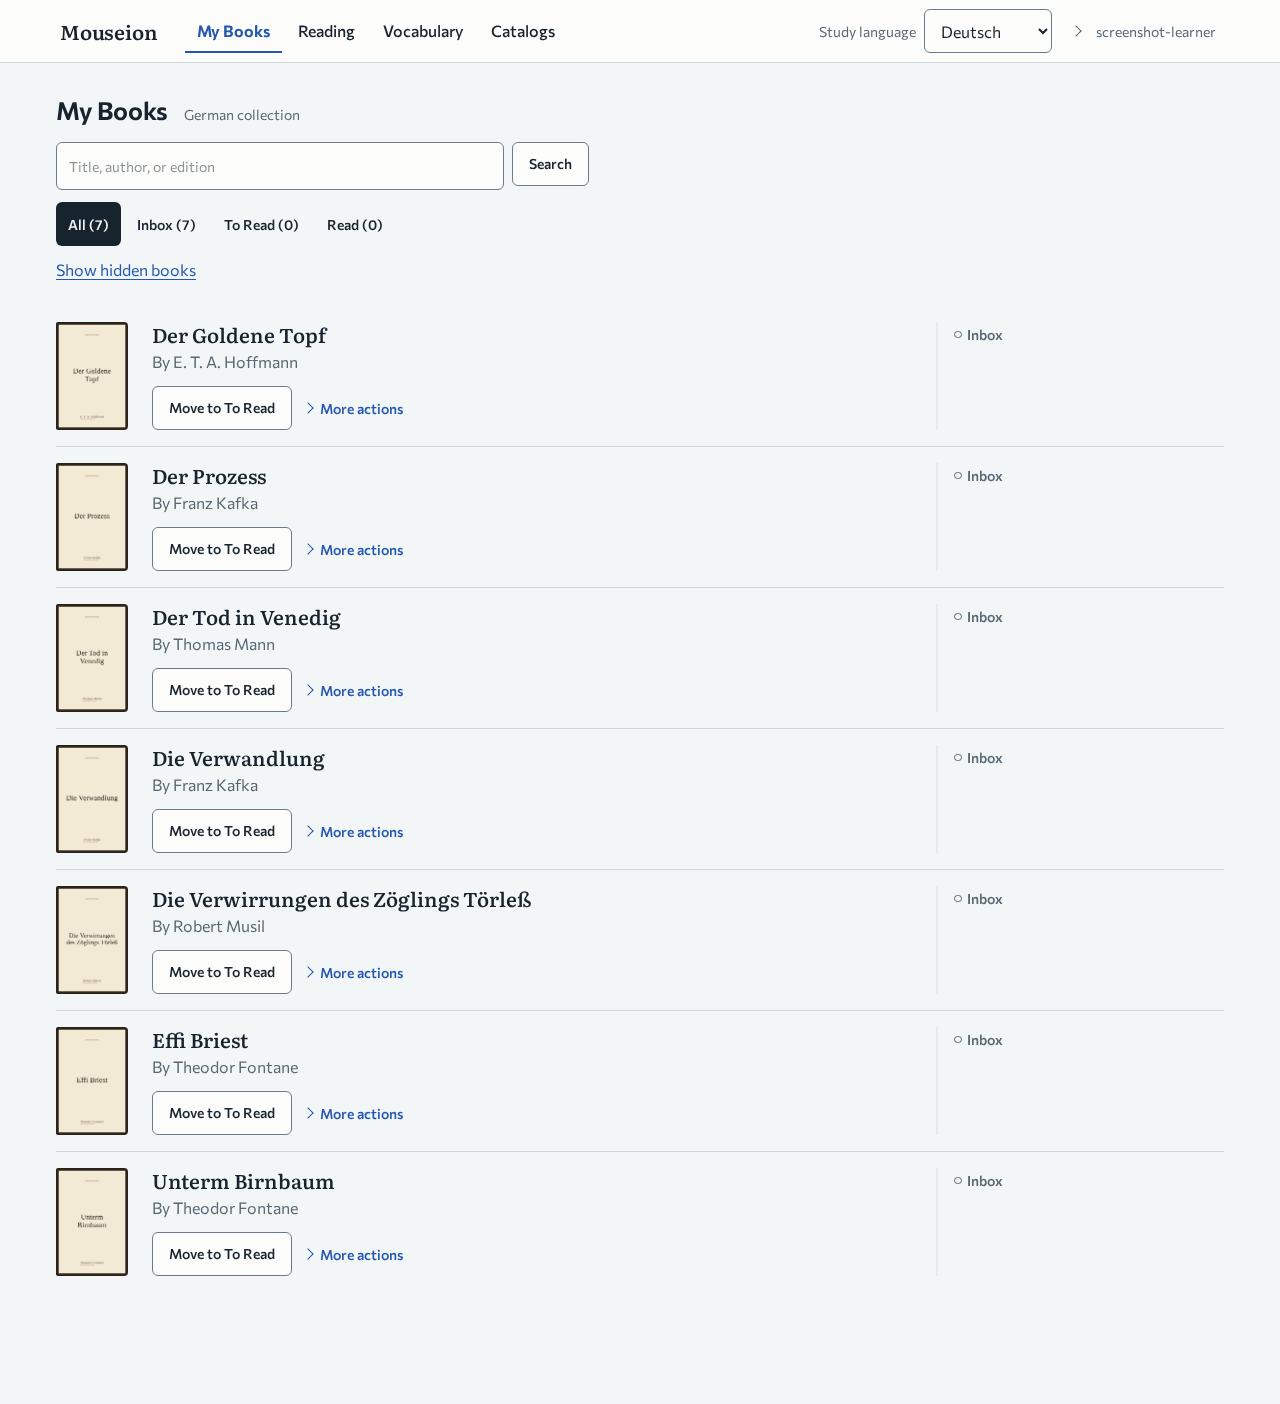
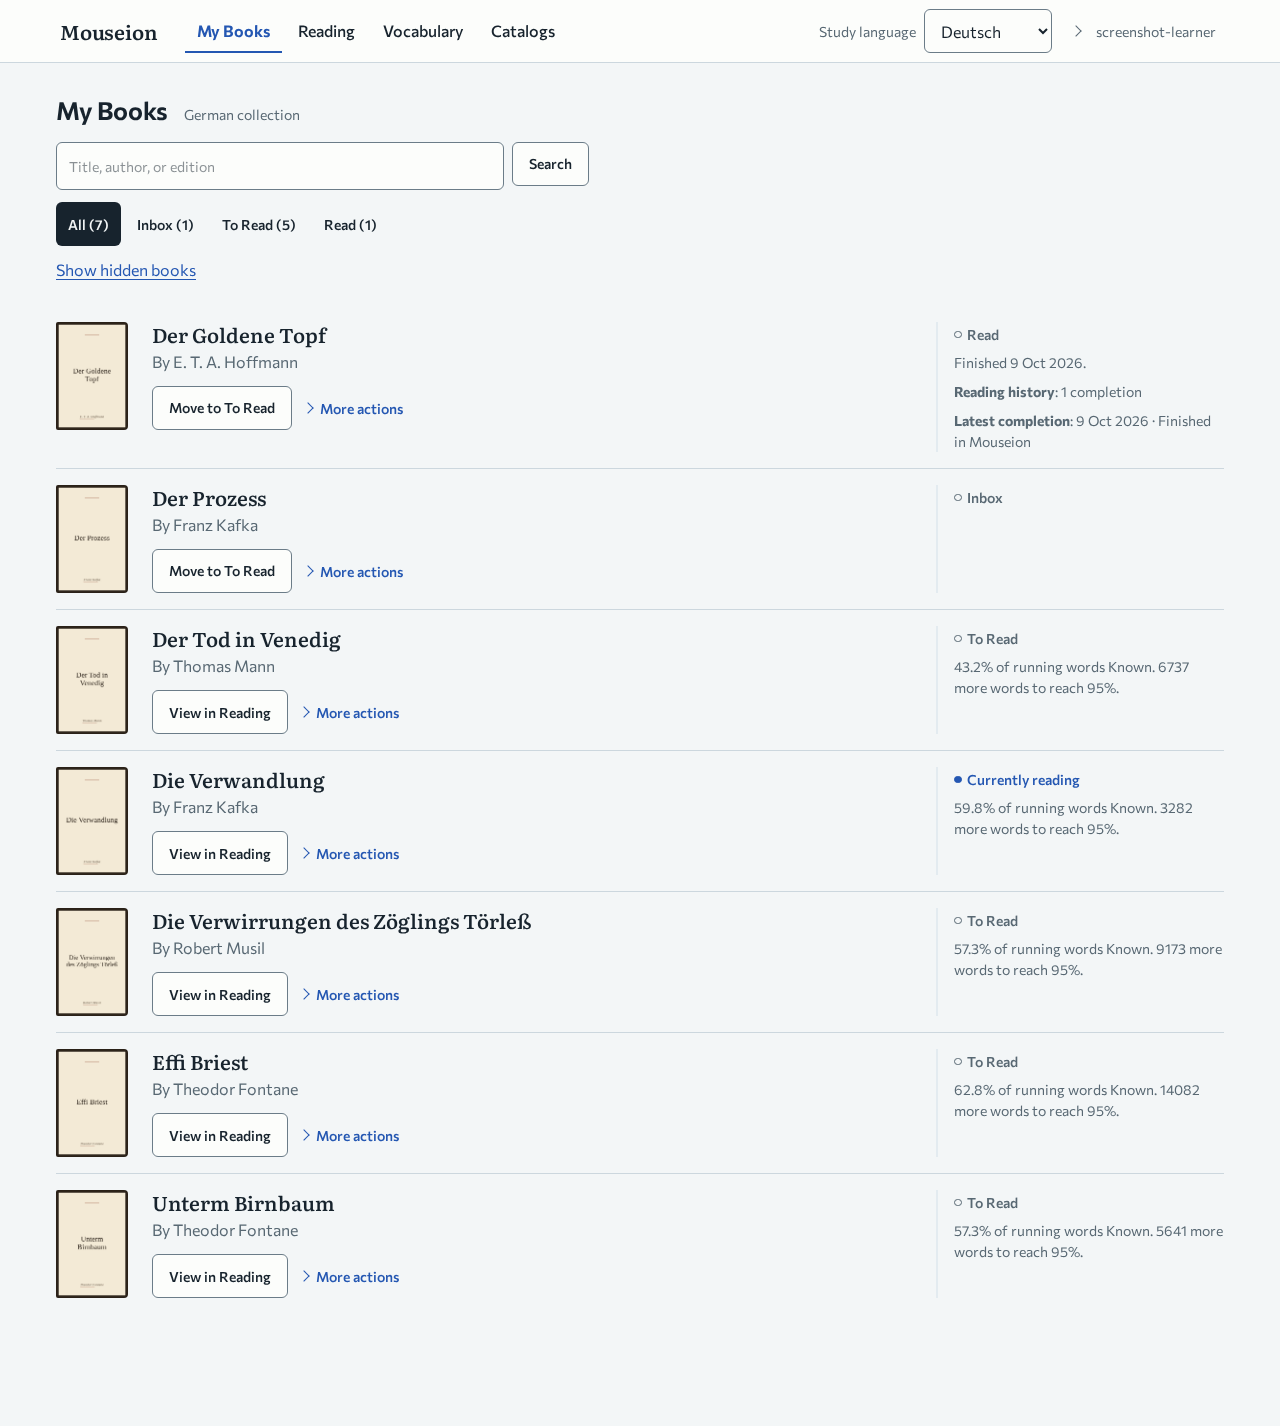
feat(e2e): analyze scenario books and capture the Reading view (#1640)

diff --git a/e2e/screenshot/my-books.spec.ts b/e2e/screenshot/my-books.spec.ts
@@ -1,15 +1,19 @@
-// Learner workflow for the My Books documentation screenshot. It creates the
-// first account, adds the static catalog, waits for catalog sync and covers by
-// observing the interface with bounded timeouts, asserts the scenario books,
-// and writes the 1280 px light-scheme capture. Every input comes from the
-// environment set by run.mjs.
+// Learner workflow for the documentation screenshots. It creates the first
+// account, adds the static catalog, waits for catalog sync and covers, moves the
+// scenario Books to To Read and waits for each analysis, reads one Book to
+// completion, starts the target Book, and then captures the Reading view and
+// My Books. Every input comes from the environment set by run.mjs, and every
+// wait is bounded and reports the Book or step that stalled.
 import { expect, test, type Page } from '@playwright/test';
 import { readFileSync } from 'node:fs';
+
+type Journey = 'inbox' | 'to-read' | 'read' | 'current';
 
 interface ManifestBook {
   gutenberg: number;
   title: string;
   author: string;
+  journey: Journey;
 }
 
 function requiredEnv(name: string): string {
@@ -22,15 +26,28 @@ const username = requiredEnv('MOUSEION_SCREENSHOT_USERNAME');
 const password = requiredEnv('MOUSEION_SCREENSHOT_PASSWORD');
 const catalogName = requiredEnv('MOUSEION_SCREENSHOT_CATALOG_NAME');
 const catalogURL = requiredEnv('MOUSEION_SCREENSHOT_CATALOG_URL');
-const outputPath = requiredEnv('MOUSEION_SCREENSHOT_OUTPUT');
+const myBooksOutputPath = requiredEnv('MOUSEION_SCREENSHOT_OUTPUT');
+const readingOutputPath = requiredEnv('MOUSEION_SCREENSHOT_READING_OUTPUT');
 const manifest = JSON.parse(readFileSync(requiredEnv('MOUSEION_SCREENSHOT_MANIFEST'), 'utf8')) as {
   books: ManifestBook[];
 };
 
 const SYNC_TIMEOUT_MS = 5 * 60_000;
 const COVER_TIMEOUT_MS = 6 * 60_000;
+// Stanza analysis of full-length EPUBs runs on CPU and the Books are analyzed
+// in parallel, so this bounds the whole To Read analysis set.
+const ANALYSIS_TIMEOUT_MS = 30 * 60_000;
+const COUNTS_TIMEOUT_MS = 5 * 60_000;
+const MOVE_TIMEOUT_MS = 60_000;
 const POLL_INTERVAL_MS = 5_000;
 const MAX_SCREENSHOT_HEIGHT = 1600;
+
+const WORKFLOW_LABEL: Record<Journey, string> = {
+  inbox: 'Inbox',
+  'to-read': 'To Read',
+  read: 'Read',
+  current: 'Currently reading',
+};
 
 async function pollUntil(check: () => Promise<boolean>, timeoutMs: number, description: string): Promise<void> {
   const deadline = Date.now() + timeoutMs;
@@ -39,6 +56,10 @@ async function pollUntil(check: () => Promise<boolean>, timeoutMs: number, descr
     await new Promise(resolve => setTimeout(resolve, POLL_INTERVAL_MS));
   }
   throw new Error(`Timed out after ${timeoutMs / 1000}s waiting for ${description}`);
+}
+
+function booksWithJourney(journey: Journey): ManifestBook[] {
+  return manifest.books.filter(book => book.journey === journey);
 }
 
 async function createAccount(page: Page): Promise<void> {
@@ -82,10 +103,20 @@ async function syncCatalog(page: Page): Promise<void> {
   );
 }
 
-async function bookStatus(page: Page, book: ManifestBook): Promise<'missing' | 'no-cover' | 'ready'> {
-  const item = page.locator('li.library-book', {
+function myBookItem(page: Page, book: ManifestBook) {
+  return page.locator('li.library-book', {
     has: page.getByRole('heading', { name: book.title, exact: true }),
   });
+}
+
+function chooserItem(page: Page, book: ManifestBook) {
+  return page.locator('li.reading-chooser-book', {
+    has: page.getByRole('heading', { name: book.title, exact: true }),
+  });
+}
+
+async function bookStatus(page: Page, book: ManifestBook): Promise<'missing' | 'no-cover' | 'ready'> {
+  const item = myBookItem(page, book);
   if ((await item.count()) === 0) return 'missing';
   const cover = item.locator('img.book-cover-media__image');
   if ((await cover.count()) === 0) return 'no-cover';
@@ -113,12 +144,114 @@ async function waitForScenarioBooks(page: Page): Promise<void> {
   expect(unresolved, 'scenario books missing from My Books or without a loaded catalog cover').toEqual([]);
 }
 
-async function settleAndCapture(page: Page): Promise<void> {
+// The My Books membership badge names the workflow bucket (Inbox, To Read,
+// Currently reading, Read). Reading the page fresh keeps the check current.
+async function workflowLabel(page: Page, book: ManifestBook): Promise<string> {
   await page.goto('/library');
+  const item = myBookItem(page, book);
+  if ((await item.count()) === 0) return 'missing';
+  return (await item.locator('.library-book__membership').innerText()).replace(/\s+/g, ' ').trim();
+}
+
+async function moveToRead(page: Page, book: ManifestBook): Promise<void> {
+  await page.goto('/library');
+  await myBookItem(page, book).getByRole('button', { name: 'Move to To Read' }).click();
+  await pollUntil(
+    async () => (await workflowLabel(page, book)) === WORKFLOW_LABEL['to-read'],
+    MOVE_TIMEOUT_MS,
+    `${book.title} to move to To Read`,
+  );
+}
+
+// A To Read Book is ready for Reading once its candidate shows current known
+// vocabulary coverage. Until then it stays in the chooser's in-progress or
+// not-assessed group, and the group text is reported if it never gets there.
+async function analysisState(page: Page, book: ManifestBook): Promise<string> {
+  const item = chooserItem(page, book);
+  if ((await item.count()) === 0) return 'not listed in Reading';
+  const text = (await item.innerText()).replace(/\s+/g, ' ').trim();
+  if (text.includes('Known vocabulary coverage')) return 'ready';
+  return `not ready: ${text.slice(0, 160)}`;
+}
+
+async function waitForAnalyses(page: Page, books: ManifestBook[]): Promise<void> {
+  const states = new Map<number, string>();
+  await pollUntil(
+    async () => {
+      await page.goto('/reading');
+      for (const book of books) {
+        states.set(book.gutenberg, await analysisState(page, book));
+      }
+      return [...states.values()].every(state => state === 'ready');
+    },
+    ANALYSIS_TIMEOUT_MS,
+    'the analysis of every To Read scenario book to complete',
+  ).catch(() => undefined);
+
+  const stalled = books
+    .filter(book => states.get(book.gutenberg) !== 'ready')
+    .map(book => `${book.title} (${states.get(book.gutenberg) ?? 'not checked'})`);
+  expect(stalled, 'To Read scenario books whose analysis did not complete').toEqual([]);
+}
+
+async function startReading(page: Page, book: ManifestBook): Promise<void> {
+  await page.goto('/reading');
+  const start = chooserItem(page, book).locator('details').filter({ hasText: 'Start reading' });
+  await expect(start, `${book.title} has a Start reading control`).toHaveCount(1, { timeout: 30_000 });
+  await start.locator('summary').click();
+  await start.getByRole('button', { name: 'Confirm start reading' }).click();
+  await expect(page, `starting ${book.title} as the Current reading`).toHaveURL(/\/reading\?message=/, { timeout: 30_000 });
+}
+
+async function finishReading(page: Page, book: ManifestBook): Promise<void> {
+  await page.goto('/reading');
+  const goal = page.locator('#primary-goal-section');
+  await expect(goal.getByRole('heading', { level: 1 }), `${book.title} is the Current reading`).toContainText(book.title, {
+    timeout: 30_000,
+  });
+  const finish = goal.locator('details').filter({ hasText: 'Mark reading finished' }).first();
+  await finish.locator('summary').click();
+  await finish.getByRole('button', { name: 'Mark reading finished' }).click();
+  await expect(page.getByRole('heading', { name: /Reading finished/i }), `finishing ${book.title}`).toBeVisible({
+    timeout: 30_000,
+  });
+}
+
+// Browse hides Known and Reserved words by default, so when the default view
+// has no rows the learner reveals already-accounted-for words before the table
+// is asserted. Counts that report themselves as updating are waited on first.
+async function assertBookVocabulary(page: Page, book: ManifestBook): Promise<void> {
+  await pollUntil(
+    async () => {
+      await page.goto('/reading');
+      const status = page.locator('#vocabulary-counts-status');
+      if ((await status.count()) === 0) return true;
+      const text = await status.innerText();
+      if (text.includes('unavailable')) {
+        throw new Error(`Vocabulary counts for ${book.title} are unavailable: ${text.replace(/\s+/g, ' ').trim()}`);
+      }
+      return !text.includes('Updating');
+    },
+    COUNTS_TIMEOUT_MS,
+    `vocabulary counts for ${book.title} to finish updating`,
+  );
+
+  const table = page.getByRole('table', { name: 'Current effective vocabulary' });
+  if ((await table.locator('tbody tr').count()) === 0) {
+    await page.locator('#vocabulary-include-all').check();
+    await page.locator('form.vocabulary-filter').getByRole('button', { name: 'Search' }).click();
+  }
+  await expect(table.locator('tbody tr').first(), `a non-empty Book vocabulary table for ${book.title}`).toBeVisible({
+    timeout: COUNTS_TIMEOUT_MS,
+  });
+}
+
+async function settleAndCapture(page: Page, path: string, outputPath: string): Promise<void> {
+  await page.goto(path);
   await page.emulateMedia({ colorScheme: 'light' });
   await page.evaluate(() => document.fonts.ready);
   await page.waitForFunction(() => document.querySelectorAll('.htmx-request').length === 0, undefined, { timeout: 15_000 });
-  // Covers below the fold are lazy-loaded, so scroll the whole list once to make
+  // Covers below the fold are lazy-loaded, so scroll the whole page once to make
   // every image request, then return to the top before measuring.
   await page.evaluate(async () => {
     for (let y = 0; y < document.body.scrollHeight; y += 400) {
@@ -142,10 +275,33 @@ async function settleAndCapture(page: Page): Promise<void> {
   });
 }
 
-test('My Books shows the scenario books with their catalog covers', async ({ page }) => {
+test('the scenario Books are analyzed, one is read to completion, and My Books and Reading are captured', async ({ page }) => {
+  const [readBook] = booksWithJourney('read');
+  const [currentBook] = booksWithJourney('current');
+  expect(booksWithJourney('read'), 'manifest has exactly one read Book').toHaveLength(1);
+  expect(booksWithJourney('current'), 'manifest has exactly one current Book').toHaveLength(1);
+  expect(booksWithJourney('inbox').length, 'manifest keeps at least one Book in Inbox').toBeGreaterThan(0);
+
   await createAccount(page);
   await addCatalog(page);
   await syncCatalog(page);
   await waitForScenarioBooks(page);
-  await settleAndCapture(page);
+
+  const toRead = manifest.books.filter(book => book.journey !== 'inbox');
+  for (const book of toRead) {
+    await moveToRead(page, book);
+  }
+  await waitForAnalyses(page, toRead);
+
+  await startReading(page, readBook);
+  await finishReading(page, readBook);
+  await startReading(page, currentBook);
+  await assertBookVocabulary(page, currentBook);
+  await expect(page.locator('#primary-goal-section').getByRole('heading', { level: 1 })).toContainText(currentBook.title);
+  await settleAndCapture(page, '/reading', readingOutputPath);
+
+  for (const book of manifest.books) {
+    expect(await workflowLabel(page, book), `${book.title} workflow bucket in My Books`).toBe(WORKFLOW_LABEL[book.journey]);
+  }
+  await settleAndCapture(page, '/library', myBooksOutputPath);
 });

diff --git a/e2e/screenshot/playwright.config.ts b/e2e/screenshot/playwright.config.ts
@@ -10,8 +10,10 @@ export default defineConfig({
   fullyParallel: false,
   workers: 1,
   retries: 0,
-  // Covers arrive through River jobs after sync, so the workflow waits on them.
-  timeout: 20 * 60_000,
+  // Catalog sync, covers, and analysis arrive through River jobs, so the workflow
+  // waits on them. Each wait is bounded in my-books.spec.ts; this budget covers
+  // their sum (about 46 minutes worst case) plus the UI steps between them.
+  timeout: 75 * 60_000,
   expect: { timeout: 10_000 },
   reporter: [['list']],
   outputDir: process.env.MOUSEION_SCREENSHOT_RESULTS ?? '../../.tmp/screenshot/test-results',

diff --git a/e2e/README.md b/e2e/README.md
@@ -122,12 +122,19 @@ Committed baselines belong under `e2e/tests/**/__snapshots__/`. Failed runs
 retain reviewable output in `playwright-report/` and `test-results/`; traces,
 screenshots, and videos are retained there according to the Playwright config.
 
-## Documentation screenshot of My Books
+## Documentation screenshots of My Books and Reading
 
-`make screenshot-my-books` builds the documentation screenshot
-`doc/images/my-books.png` on an isolated Compose stack. It is separate from
-`make browser-smoke` and CI.
+`make screenshot-my-books` builds the documentation screenshots
+`doc/images/my-books.png` and `doc/images/reading.png` on an isolated Compose
+stack. It is separate from `make browser-smoke` and CI.
 
+- The learner workflow moves every scenario Book except the one marked `inbox`
+  to To Read, waits for each analysis through Reading's chooser, starts and
+  finishes the `read` Book, starts the `current` Book, and asserts its title and
+  a non-empty Book vocabulary table before capturing Reading. My Books is then
+  captured with the Inbox, To Read, Currently reading, and Read buckets asserted.
+- Each wait is bounded and names the Book or step that stalled. Analysis of the
+  full set is bounded at 30 minutes; the Playwright test budget is 75 minutes.
 - Source books are pinned Project Gutenberg editions in
   `screenshot/manifest.json`, cached under the ignored `.tmp/screenshot/`.
   A checksum mismatch stops the run; review the manifest before changing a pin.
